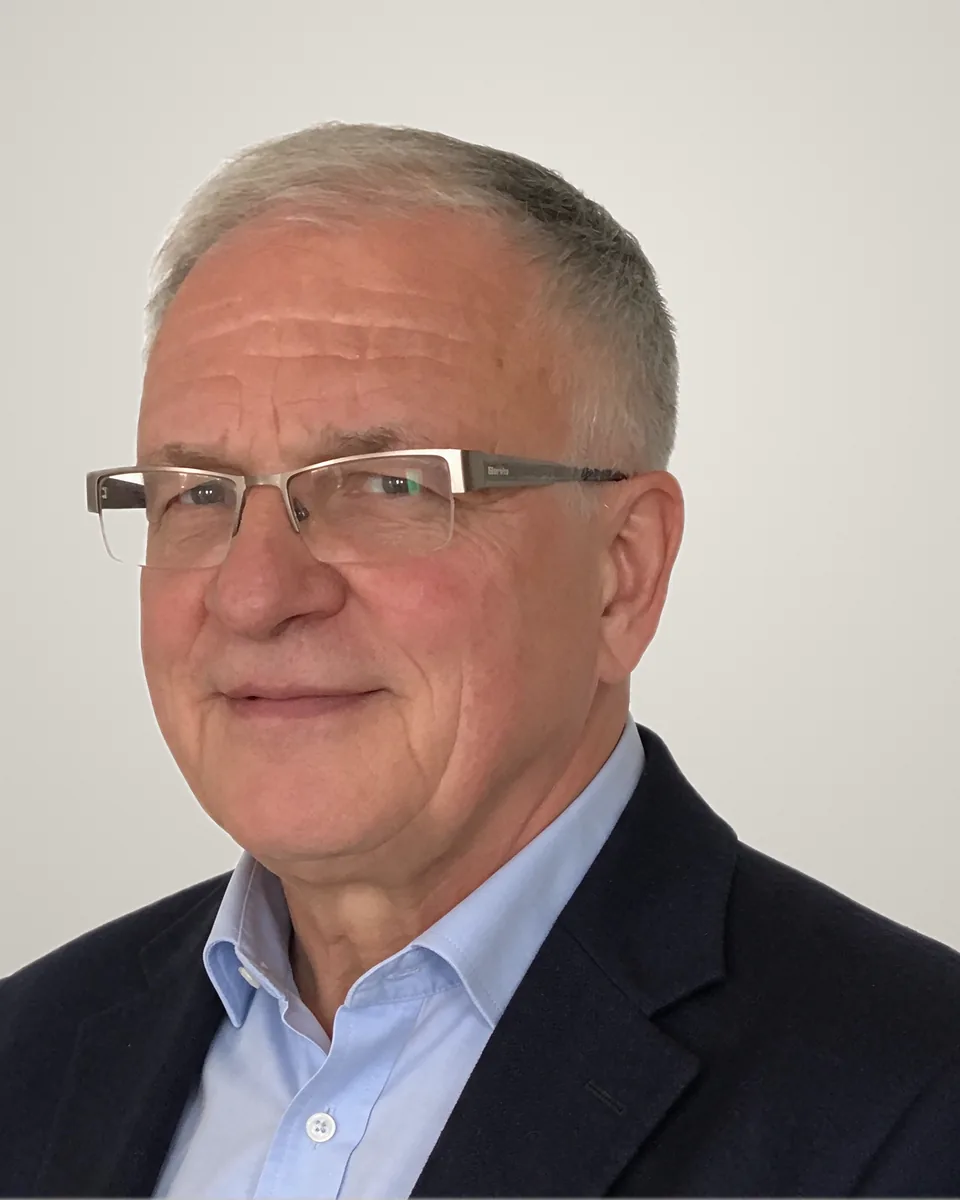
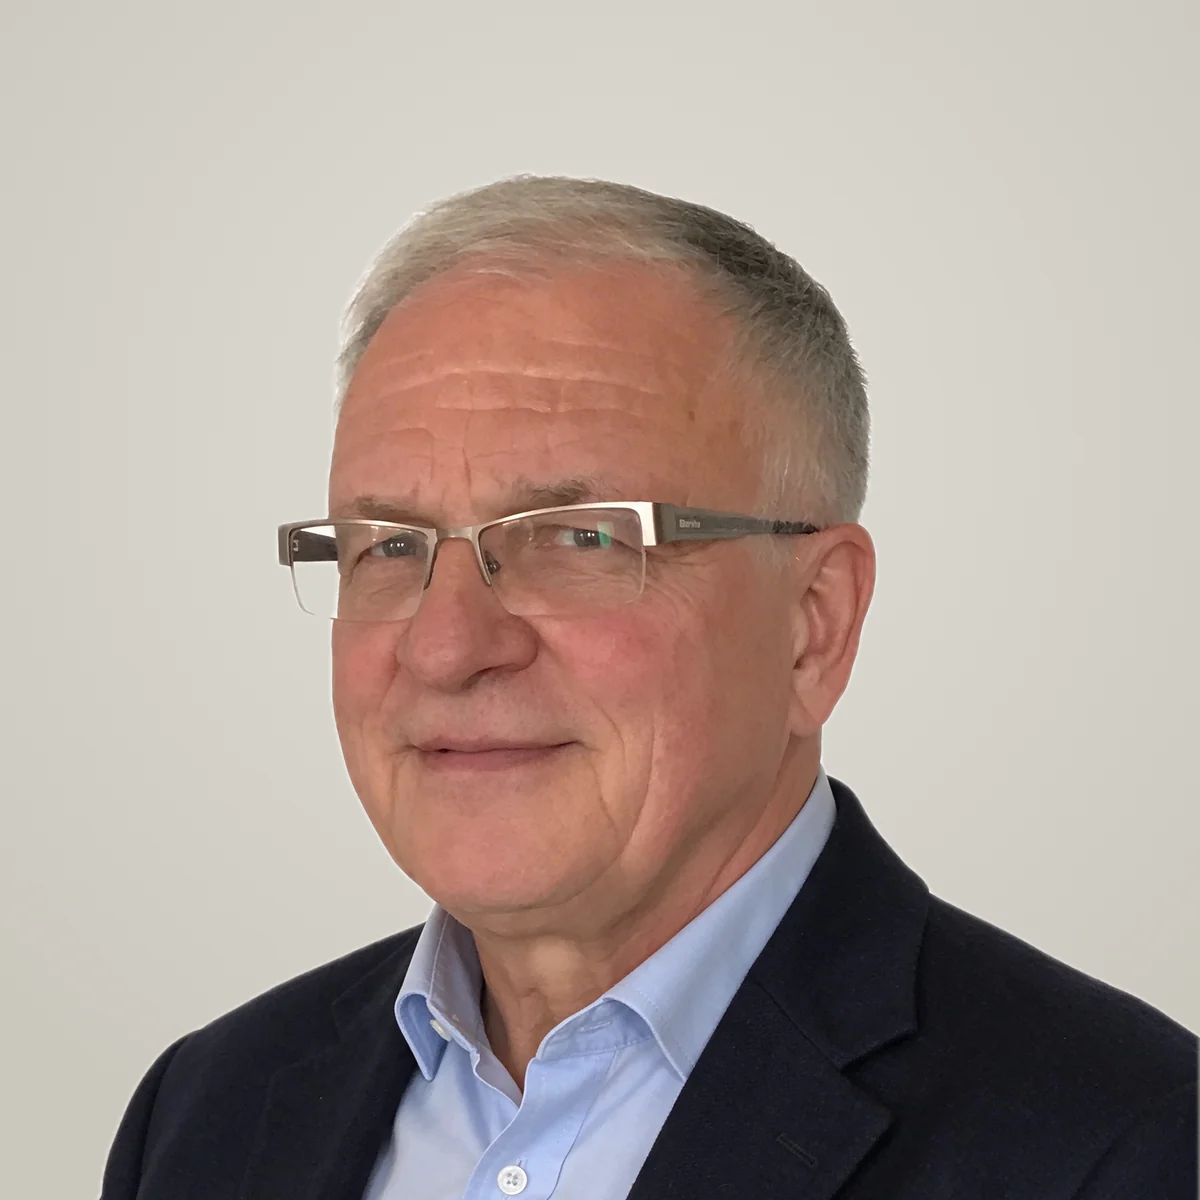
Ueber uns: Portraet quadratisch, Kopf zentriert mit Luft nach oben
Neu aus dem Freisteller auf Studio-Hintergrund komponiert (1:1 statt
enger 4:5-Ausschnitt), Bildhoehe passt jetzt zum Textblock.

diff --git a/css/style.css b/css/style.css
@@ -3036,8 +3036,8 @@ li, figcaption, dd { text-wrap: pretty; }
 
 
 /* Ueber uns: Portraet als ruhiges Studiofoto im Seitenraster */
-.about-image--portrait { aspect-ratio: 4 / 5; }
-.about-image--portrait img { height: 100%; object-fit: cover; object-position: 50% 20%; }
+.about-image--portrait { aspect-ratio: 1 / 1; }
+.about-image--portrait img { height: 100%; object-fit: cover; object-position: 50% 50%; }
 
 /* DIN-Pruefzeichen: einfarbige Maske statt Bild mit weissem Kasten */
 .din-mark {

diff --git a/uber-uns.html b/uber-uns.html
@@ -74,7 +74,7 @@
           </div>
         </div>
         <div class="about-image about-image--portrait fade-in">
-          <img src="images/rainer-ludwig.webp" alt="Rainer Ludwig, DIN-zertifizierter Lichttechniker" loading="lazy" width="960" height="1200">
+          <img src="images/rainer-ludwig.webp" alt="Rainer Ludwig, DIN-zertifizierter Lichttechniker" loading="lazy" width="1200" height="1200">
         </div>
       </div>
     </div>
